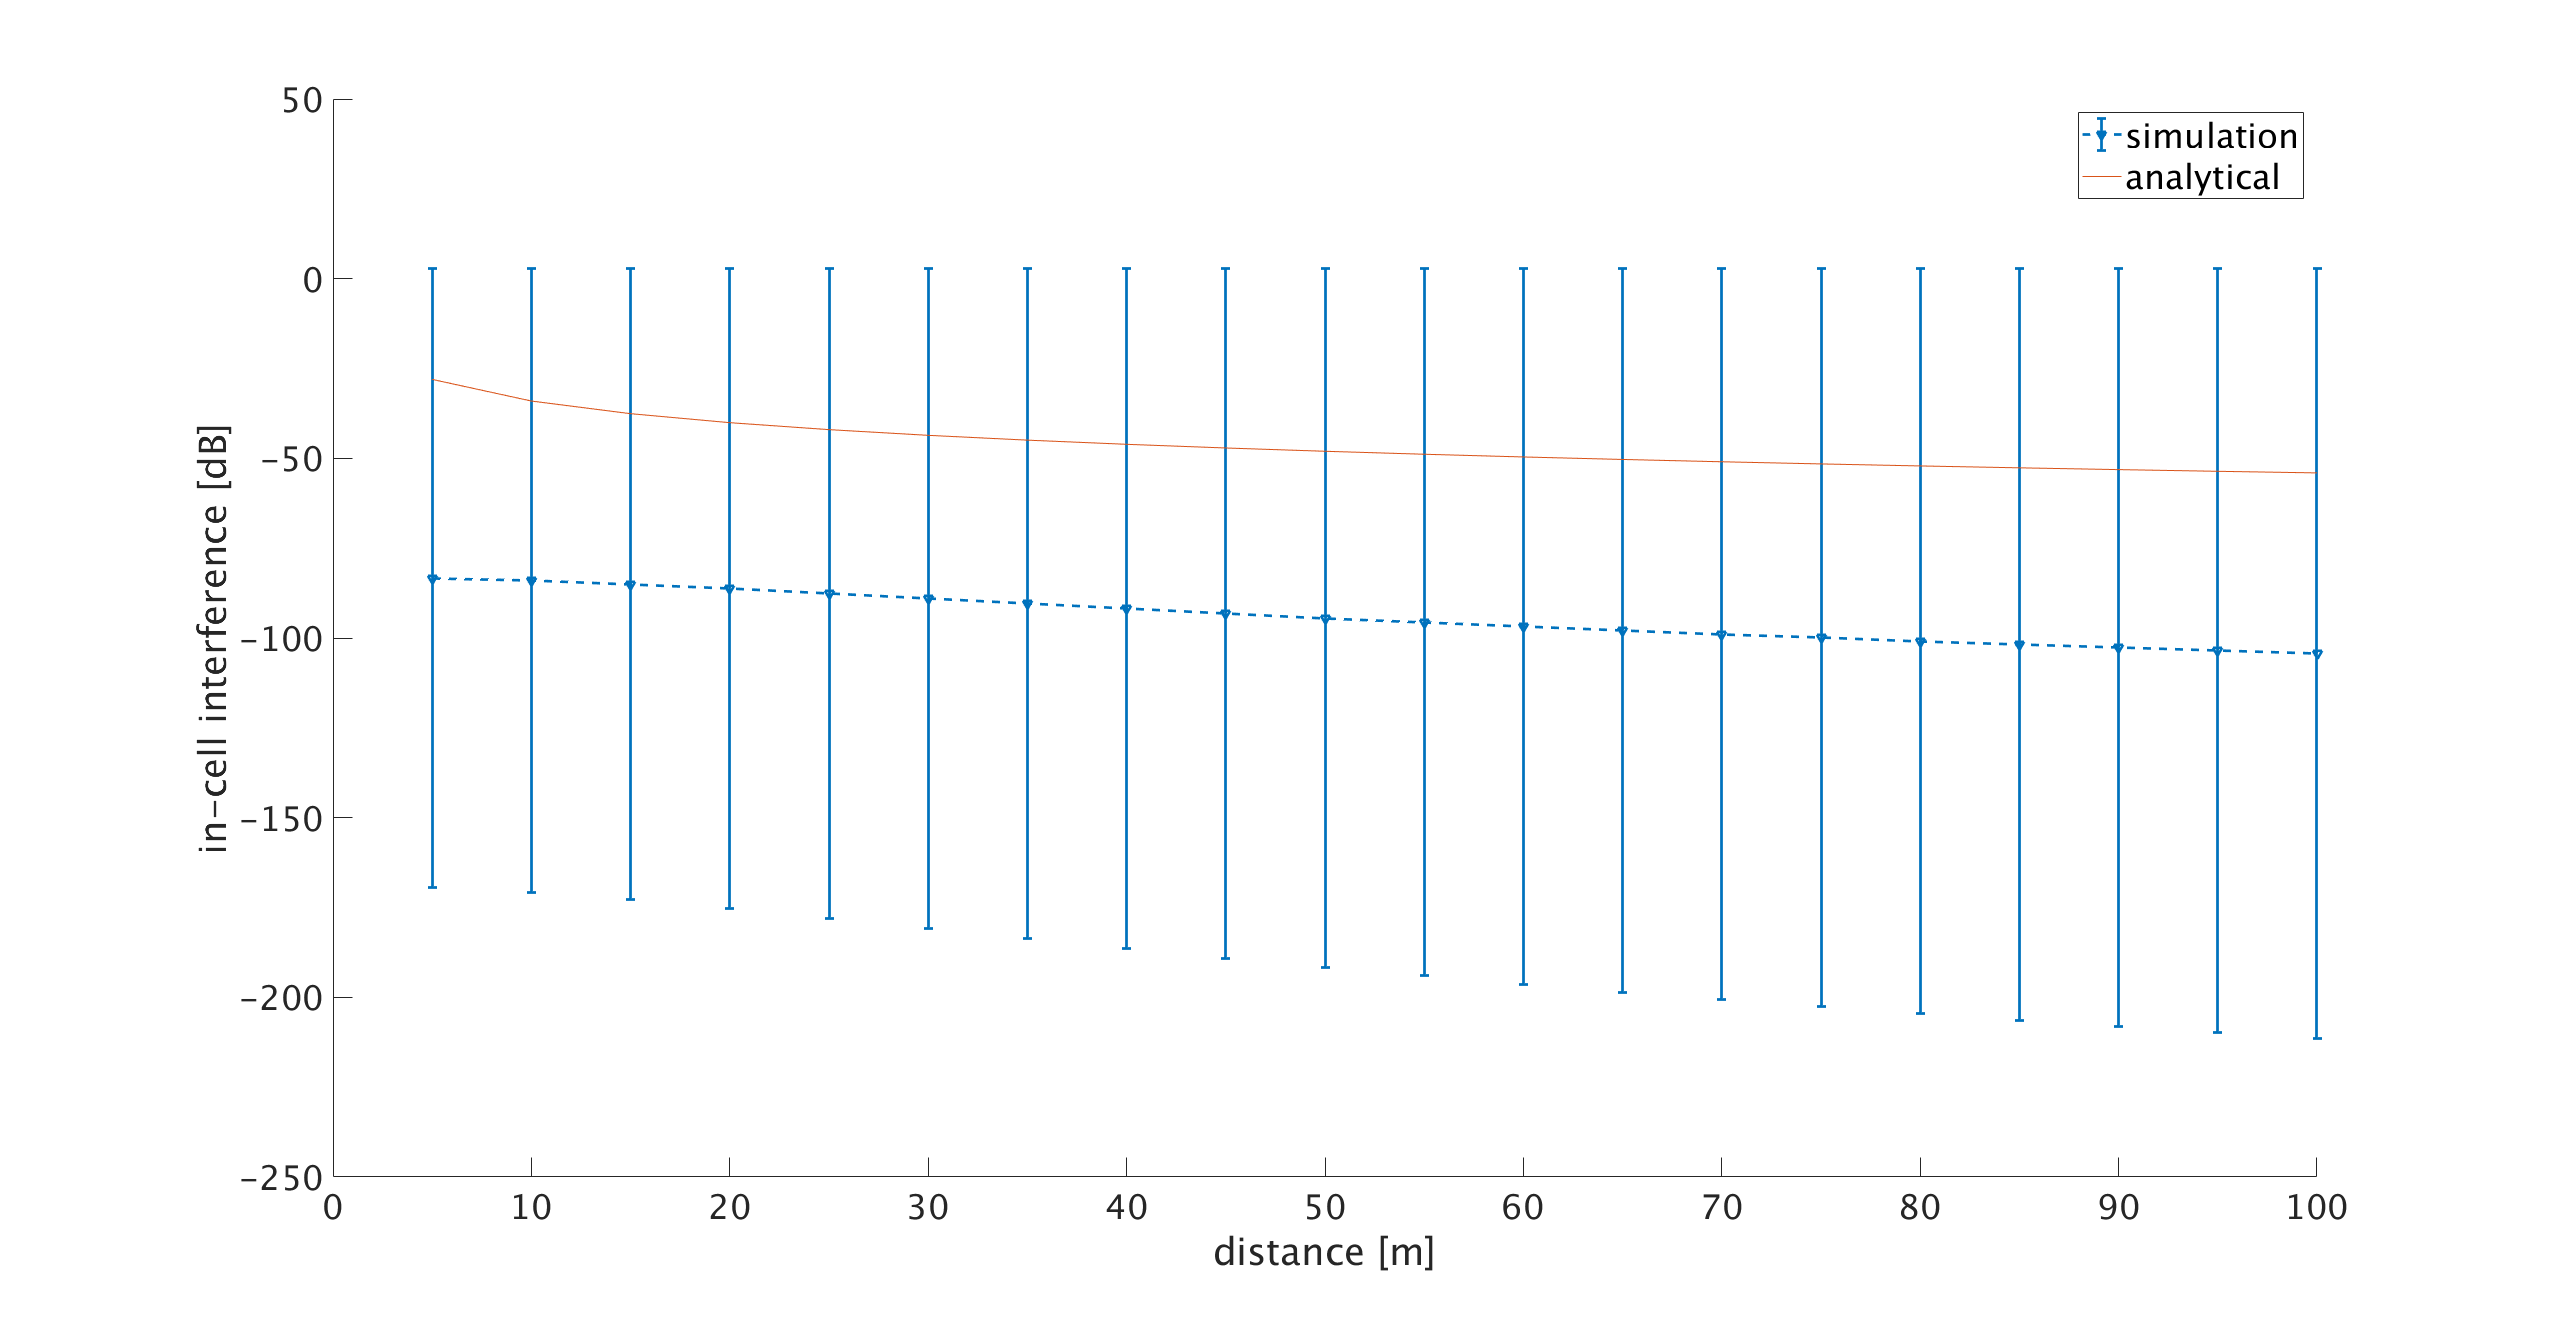
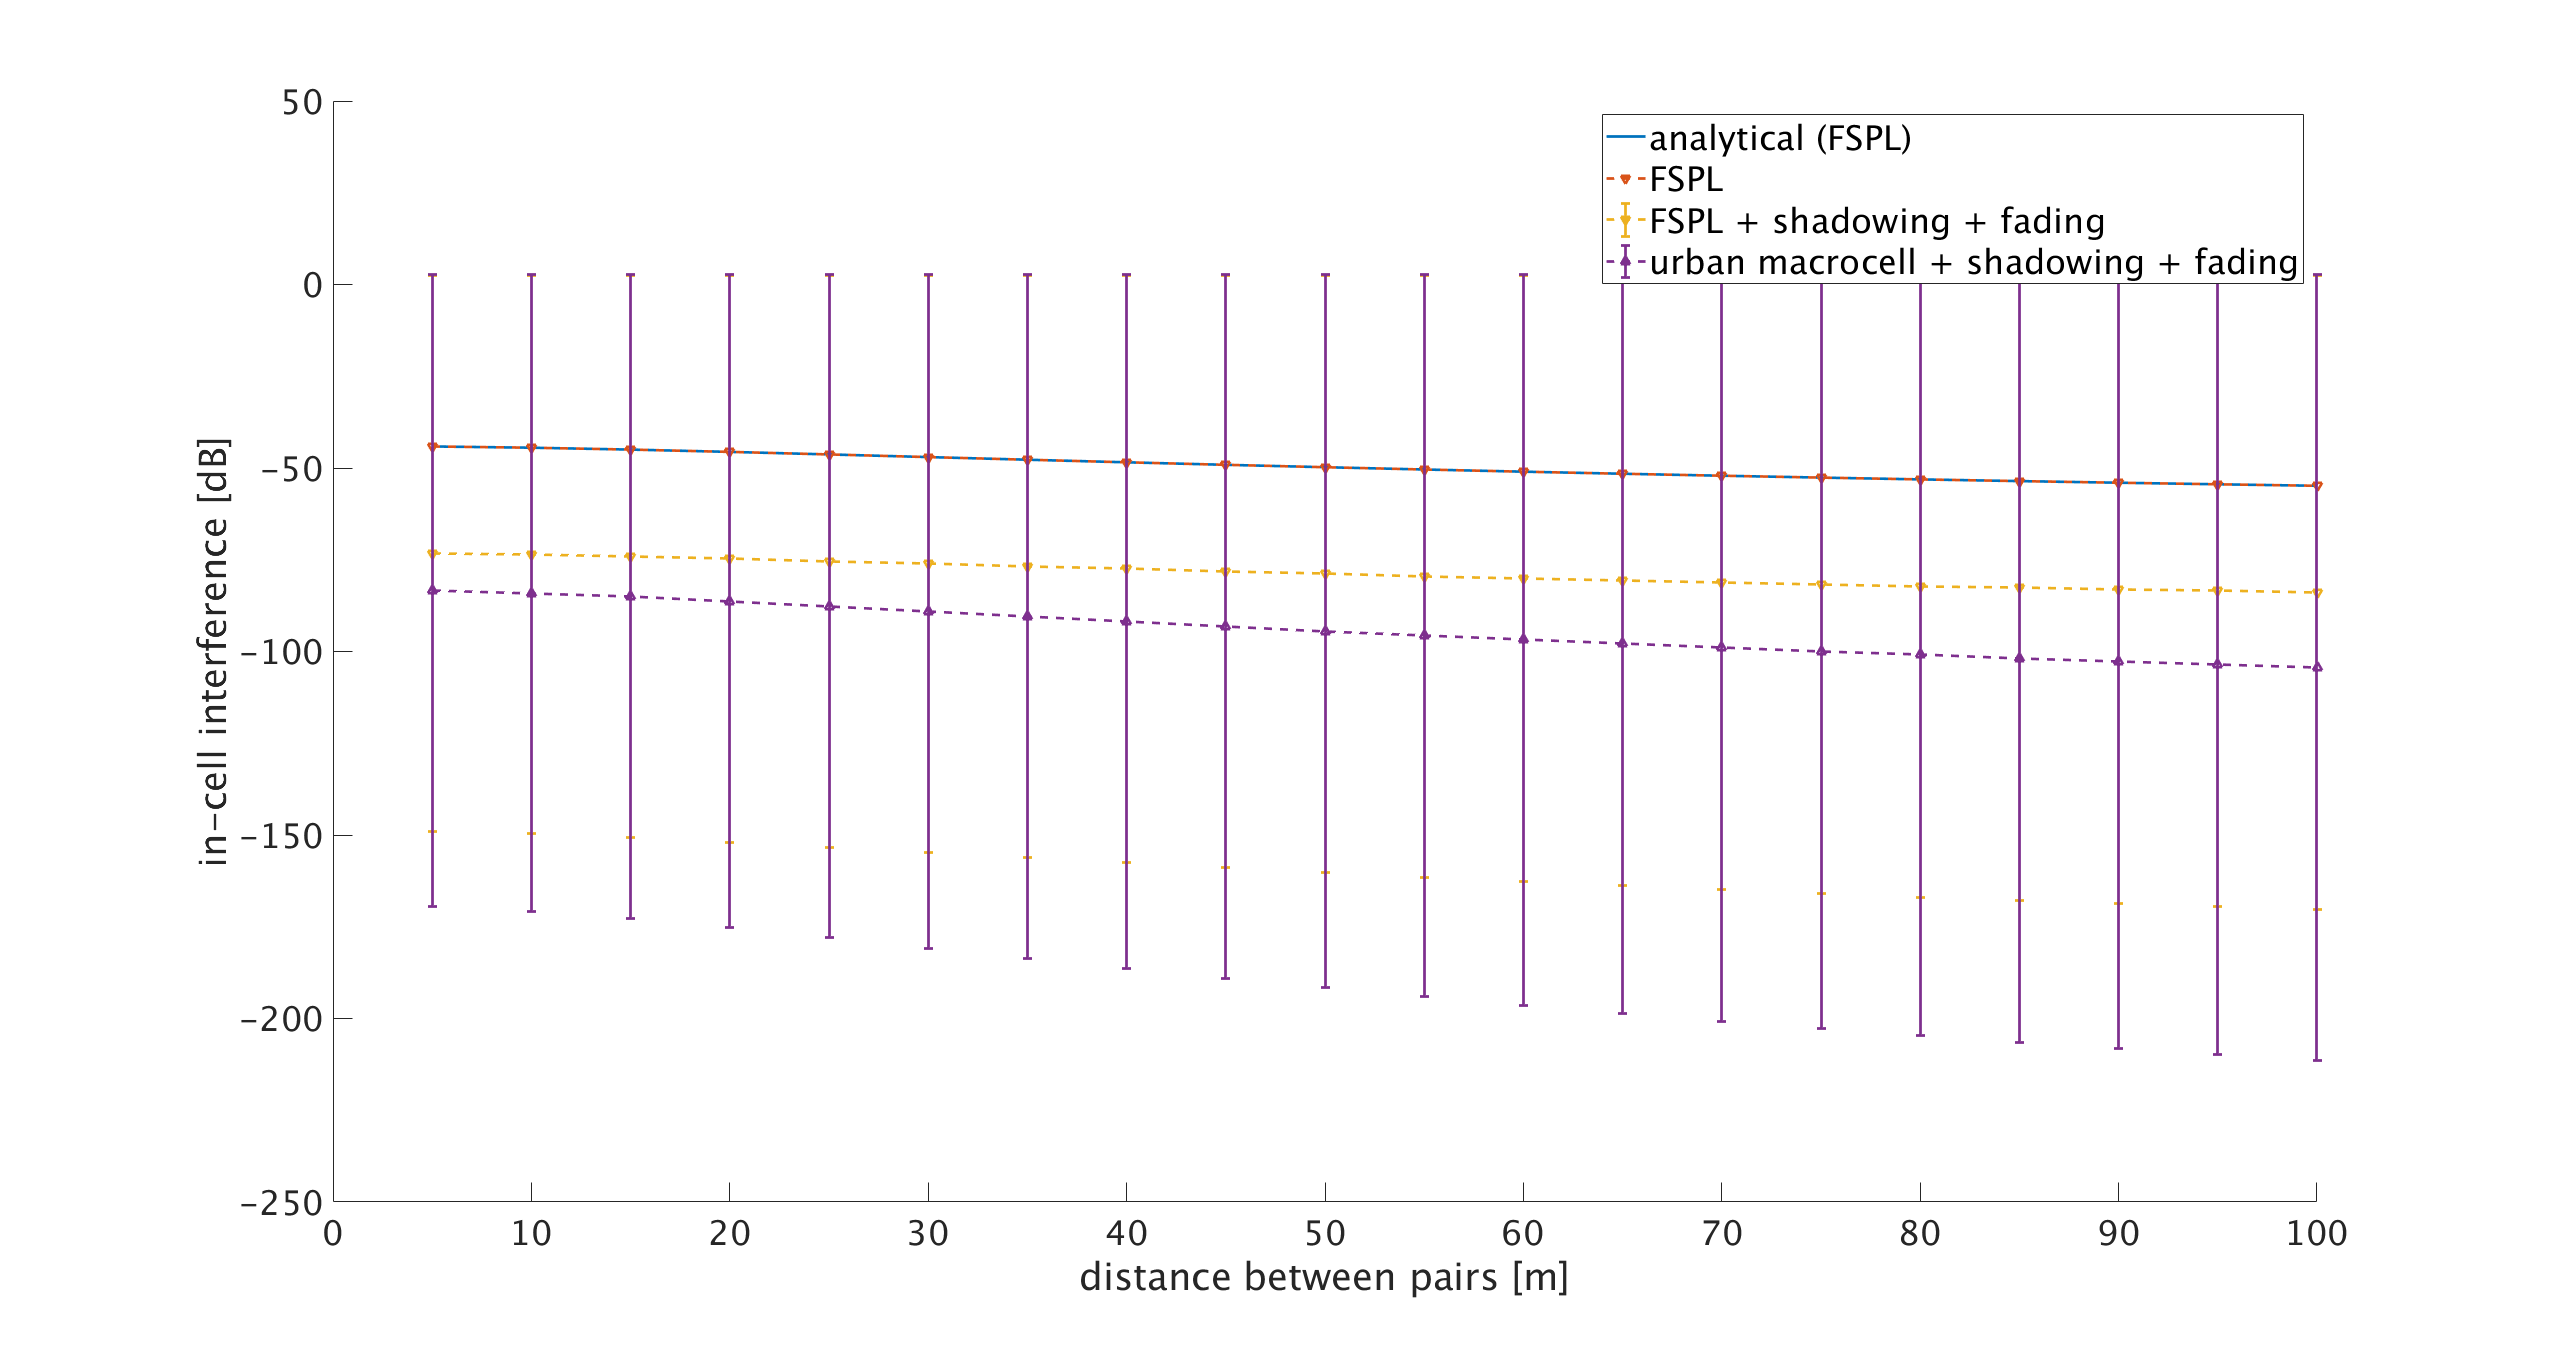
[Config testInCellInterferenceAddition]

diff --git a/frequency-reuse/evaluation/plots/analysis_incell_interference.m b/frequency-reuse/evaluation/plots/analysis_incell_interference.m
@@ -1,28 +1,34 @@
-%% Parse simulation results.
+% Parse simulation results.
 reps = 20;
 dVec = 405:5:500;
+y1 = 400;
+y2 = 430;
 location = 400;
 filenames_urban = {};
 filenames_fspl = {};
+filenames_fspl_only = {};
 
 for i=1:size(dVec,2)
     d = dVec(i);
     for rep=0:(reps - 1)                                
         filenames_urban(i, rep+1) = {strcat('../../results/testInCellInterferenceAnalytical/urban_macrocell/d', num2str(d), '-rep', int2str(rep), '.sca.int')};                   
         filenames_fspl(i, rep+1) = {strcat('../../results/testInCellInterferenceAnalytical/free_space/d', num2str(d), '-rep', int2str(rep), '.sca.int')};                   
+        filenames_fspl_only(i, rep+1) = {strcat('../../results/testInCellInterferenceAnalytical/free_space_no_shadowing_no_fading/d', num2str(d), '-rep', int2str(rep), '.sca.int')};                   
     end    
 end
 
 interferenceMat_urban = zeros(size(dVec, 2), 3);
 interferenceMat_fspl = zeros(size(dVec, 2), 3);
+interferenceMat_fspl_only = zeros(size(dVec, 2), 3);
  
 for i=1:size(dVec, 2)
     [interferenceMat_urban(i, 1), interferenceMat_urban(i, 2), interferenceMat_urban(i, 3)] = getMeanVec(filenames_urban(i,:));    
     [interferenceMat_fspl(i, 1), interferenceMat_fspl(i, 2), interferenceMat_fspl(i, 3)] = getMeanVec(filenames_fspl(i,:));    
+    [interferenceMat_fspl_only(i, 1), interferenceMat_fspl_only(i, 2), interferenceMat_fspl_only(i, 3)] = getMeanVec(filenames_fspl_only(i,:));    
 end
 
-%% Obtain analytical expectation.
-p_trans = 26; % dBm
+% Obtain analytical expectation.
+p_trans = 24; % dBm
 N = -174; % dB
 d_pair = 30; % Meters between transmitter and receiver.
 frequency = 2; % GHz.
@@ -31,28 +37,32 @@ att_link = getPathAttenuation(d_pair / 1000, frequency);
 p_rcvd = p_trans - att_link;
 gain = p_rcvd - p_trans;
 
+attenuationVec = [];
 interferenceVec = [];
 sinrVec = [];
 for i = 1 : size(dVec, 2)
-    att_interference = getPathAttenuation((dVec(i) - location) / 1000, frequency);
-    interferenceVec(i) = p_trans - att_interference;        
+    d = sqrt((dVec(i) - location)^2 + (y1 - y2)^2);
+    attenuationVec(i) = getPathAttenuation(d / 1000, frequency);
+    interferenceVec(i) = p_trans - attenuationVec(i);        
     sinrVec(i) = p_rcvd / interferenceVec(i) + N;
 end
 
-%% Plot. 
+% Plot. 
 figure;
 hold on;
 
 % yyaxis left;
 ylabel('in-cell interference [dB]');
-errorbar(dVec - location, 10*log10(interferenceMat_urban(:, 1)), 10*log10(interferenceMat_urban(:, 2)), 10*log10(interferenceMat_urban(:, 3)), '--v', 'LineWidth', 2, 'Color', 'blue');
-errorbar(dVec - location, 10*log10(interferenceMat_fspl(:, 1)), 10*log10(interferenceMat_fspl(:, 2)), 10*log10(interferenceMat_fspl(:, 3)), '--v', 'LineWidth', 2, 'Color', 'magenta');
-plot(dVec - location, interferenceVec, 'Color', 'red');
+plot(dVec - location, interferenceVec, 'LineWidth', 2);
+plot(dVec - location, interferenceMat_fspl_only(:, 1), '--v', 'LineWidth', 2);
+errorbar(dVec - location, 10*log10(interferenceMat_fspl(:, 1)), 10*log10(interferenceMat_fspl(:, 2)), 10*log10(interferenceMat_fspl(:, 3)), '--v', 'LineWidth', 2);
+errorbar(dVec - location, 10*log10(interferenceMat_urban(:, 1)), 10*log10(interferenceMat_urban(:, 2)), 10*log10(interferenceMat_urban(:, 3)), '--^', 'LineWidth', 2);
+
 
 % yyaxis right;
 % plot(dVec - location, sinrVec);
 
 xlabel('distance between pairs [m]');
-legend({'simulation (urban macrocell)', 'simulation (FSPL)', 'analytical (FSPL)'}, 'Location', 'northeast', 'FontSize', 26);
+legend({'analytical (FSPL)', 'FSPL', 'FSPL + shadowing + fading', 'urban macrocell + shadowing + fading'}, 'Location', 'northeast', 'FontSize', 26);
 set(gca,'FontSize', 26);
 hold off;

diff --git a/frequency-reuse/evaluation/plots/analysis_incell_sinr.m b/frequency-reuse/evaluation/plots/analysis_incell_sinr.m
@@ -1,0 +1,68 @@
+% Parse simulation results.
+reps = 20;
+dVec = 405:5:500;
+y1 = 400;
+y2 = 430;
+location = 400;
+filenames_urban = {};
+filenames_fspl = {};
+filenames_fspl_only = {};
+
+for i=1:size(dVec,2)
+    d = dVec(i);
+    for rep=0:(reps - 1)                                
+        filenames_urban(i, rep+1) = {strcat('../../results/testInCellInterferenceAnalytical/urban_macrocell/d', num2str(d), '-rep', int2str(rep), '.sca.sinr')};                   
+        filenames_fspl(i, rep+1) = {strcat('../../results/testInCellInterferenceAnalytical/free_space/d', num2str(d), '-rep', int2str(rep), '.sca.sinr')};                   
+        filenames_fspl_only(i, rep+1) = {strcat('../../results/testInCellInterferenceAnalytical/free_space_no_shadowing_no_fading/d', num2str(d), '-rep', int2str(rep), '.sca.sinr')};                   
+    end    
+end
+
+sinrMat_urban = zeros(size(dVec, 2), 3);
+sinrMat_fspl = zeros(size(dVec, 2), 3);
+sinrMat_fspl_only = zeros(size(dVec, 2), 3);
+ 
+for i=1:size(dVec, 2)
+    [sinrMat_urban(i, 1), sinrMat_urban(i, 2), sinrMat_urban(i, 3)] = getMeanVec(filenames_urban(i,:));    
+    [sinrMat_fspl(i, 1), sinrMat_fspl(i, 2), sinrMat_fspl(i, 3)] = getMeanVec(filenames_fspl(i,:));    
+    [sinrMat_fspl_only(i, 1), sinrMat_fspl_only(i, 2), sinrMat_fspl_only(i, 3)] = getMeanVec(filenames_fspl_only(i,:));    
+end
+
+% Obtain analytical expectation.
+p_trans = 24; % dBm
+N = -174; % dB
+d_pair = 30; % Meters between transmitter and receiver.
+frequency = 2; % GHz.
+
+att_link = getPathAttenuation(d_pair / 1000, frequency);
+p_rcvd = p_trans - att_link;
+gain = p_rcvd - p_trans;
+
+attenuationVec = [];
+interferenceVec = [];
+sinrVec = [];
+for i = 1 : size(dVec, 2)
+    d = sqrt((dVec(i) - location)^2 + (y1 - y2)^2);
+    attenuationVec(i) = getPathAttenuation(d / 1000, frequency);
+    interferenceVec(i) = p_trans - attenuationVec(i);        
+    sinrVec(i) = p_rcvd / interferenceVec(i) + N;
+end
+
+% Plot. 
+figure;
+hold on;
+
+% yyaxis left;
+ylabel('in-cell interference [dB]');
+plot(dVec - location, sinrVec, 'LineWidth', 2);
+plot(dVec - location, sinrMat_fspl_only(:, 1), '--v', 'LineWidth', 2);
+%errorbar(dVec - location, 10*log10(sinrMat_fspl(:, 1)), 10*log10(sinrMat_fspl(:, 2)), 10*log10(sinrMat_fspl(:, 3)), '--v', 'LineWidth', 2);
+%errorbar(dVec - location, 10*log10(sinrMat_urban(:, 1)), 10*log10(sinrMat_urban(:, 2)), 10*log10(sinrMat_urban(:, 3)), '--^', 'LineWidth', 2);
+
+
+% yyaxis right;
+% plot(dVec - location, sinrVec);
+
+xlabel('distance between pairs [m]');
+legend({'analytical (FSPL)', 'FSPL', 'FSPL + shadowing + fading', 'urban macrocell + shadowing + fading'}, 'Location', 'northeast', 'FontSize', 26);
+set(gca,'FontSize', 26);
+hold off;

diff --git a/frequency-reuse/evaluation/plots/analysis_incell_interference_addition.m b/frequency-reuse/evaluation/plots/analysis_incell_interference_addition.m
@@ -1,0 +1,25 @@
+% Obtain analytical expectation.
+p_trans = 24; % dBm
+N = -174; % dB
+d_pair = 30; % Meters between transmitter and receiver.
+frequency = 2; % GHz.
+
+att_link = getPathAttenuation(d_pair / 1000, frequency);
+p_rcvd = p_trans - att_link;
+
+interferenceVec = [];
+sinrVec = [];
+for i = 1 : size(dVec, 2)
+    att_interference = getPathAttenuation((dVec(i) - location) / 1000, frequency);
+    interferenceVec(i) = p_trans - att_interference;        
+    sinrVec(i) = p_rcvd / (interferenceVec(i) + N);
+end
+
+% Plot. 
+figure;
+hold on;
+ylabel('in-cell interference [dB]');
+plot(dVec - location, interferenceVec, 'Color', 'red');
+xlabel('distance between pairs [m]');
+set(gca,'FontSize', 26);
+hold off;
